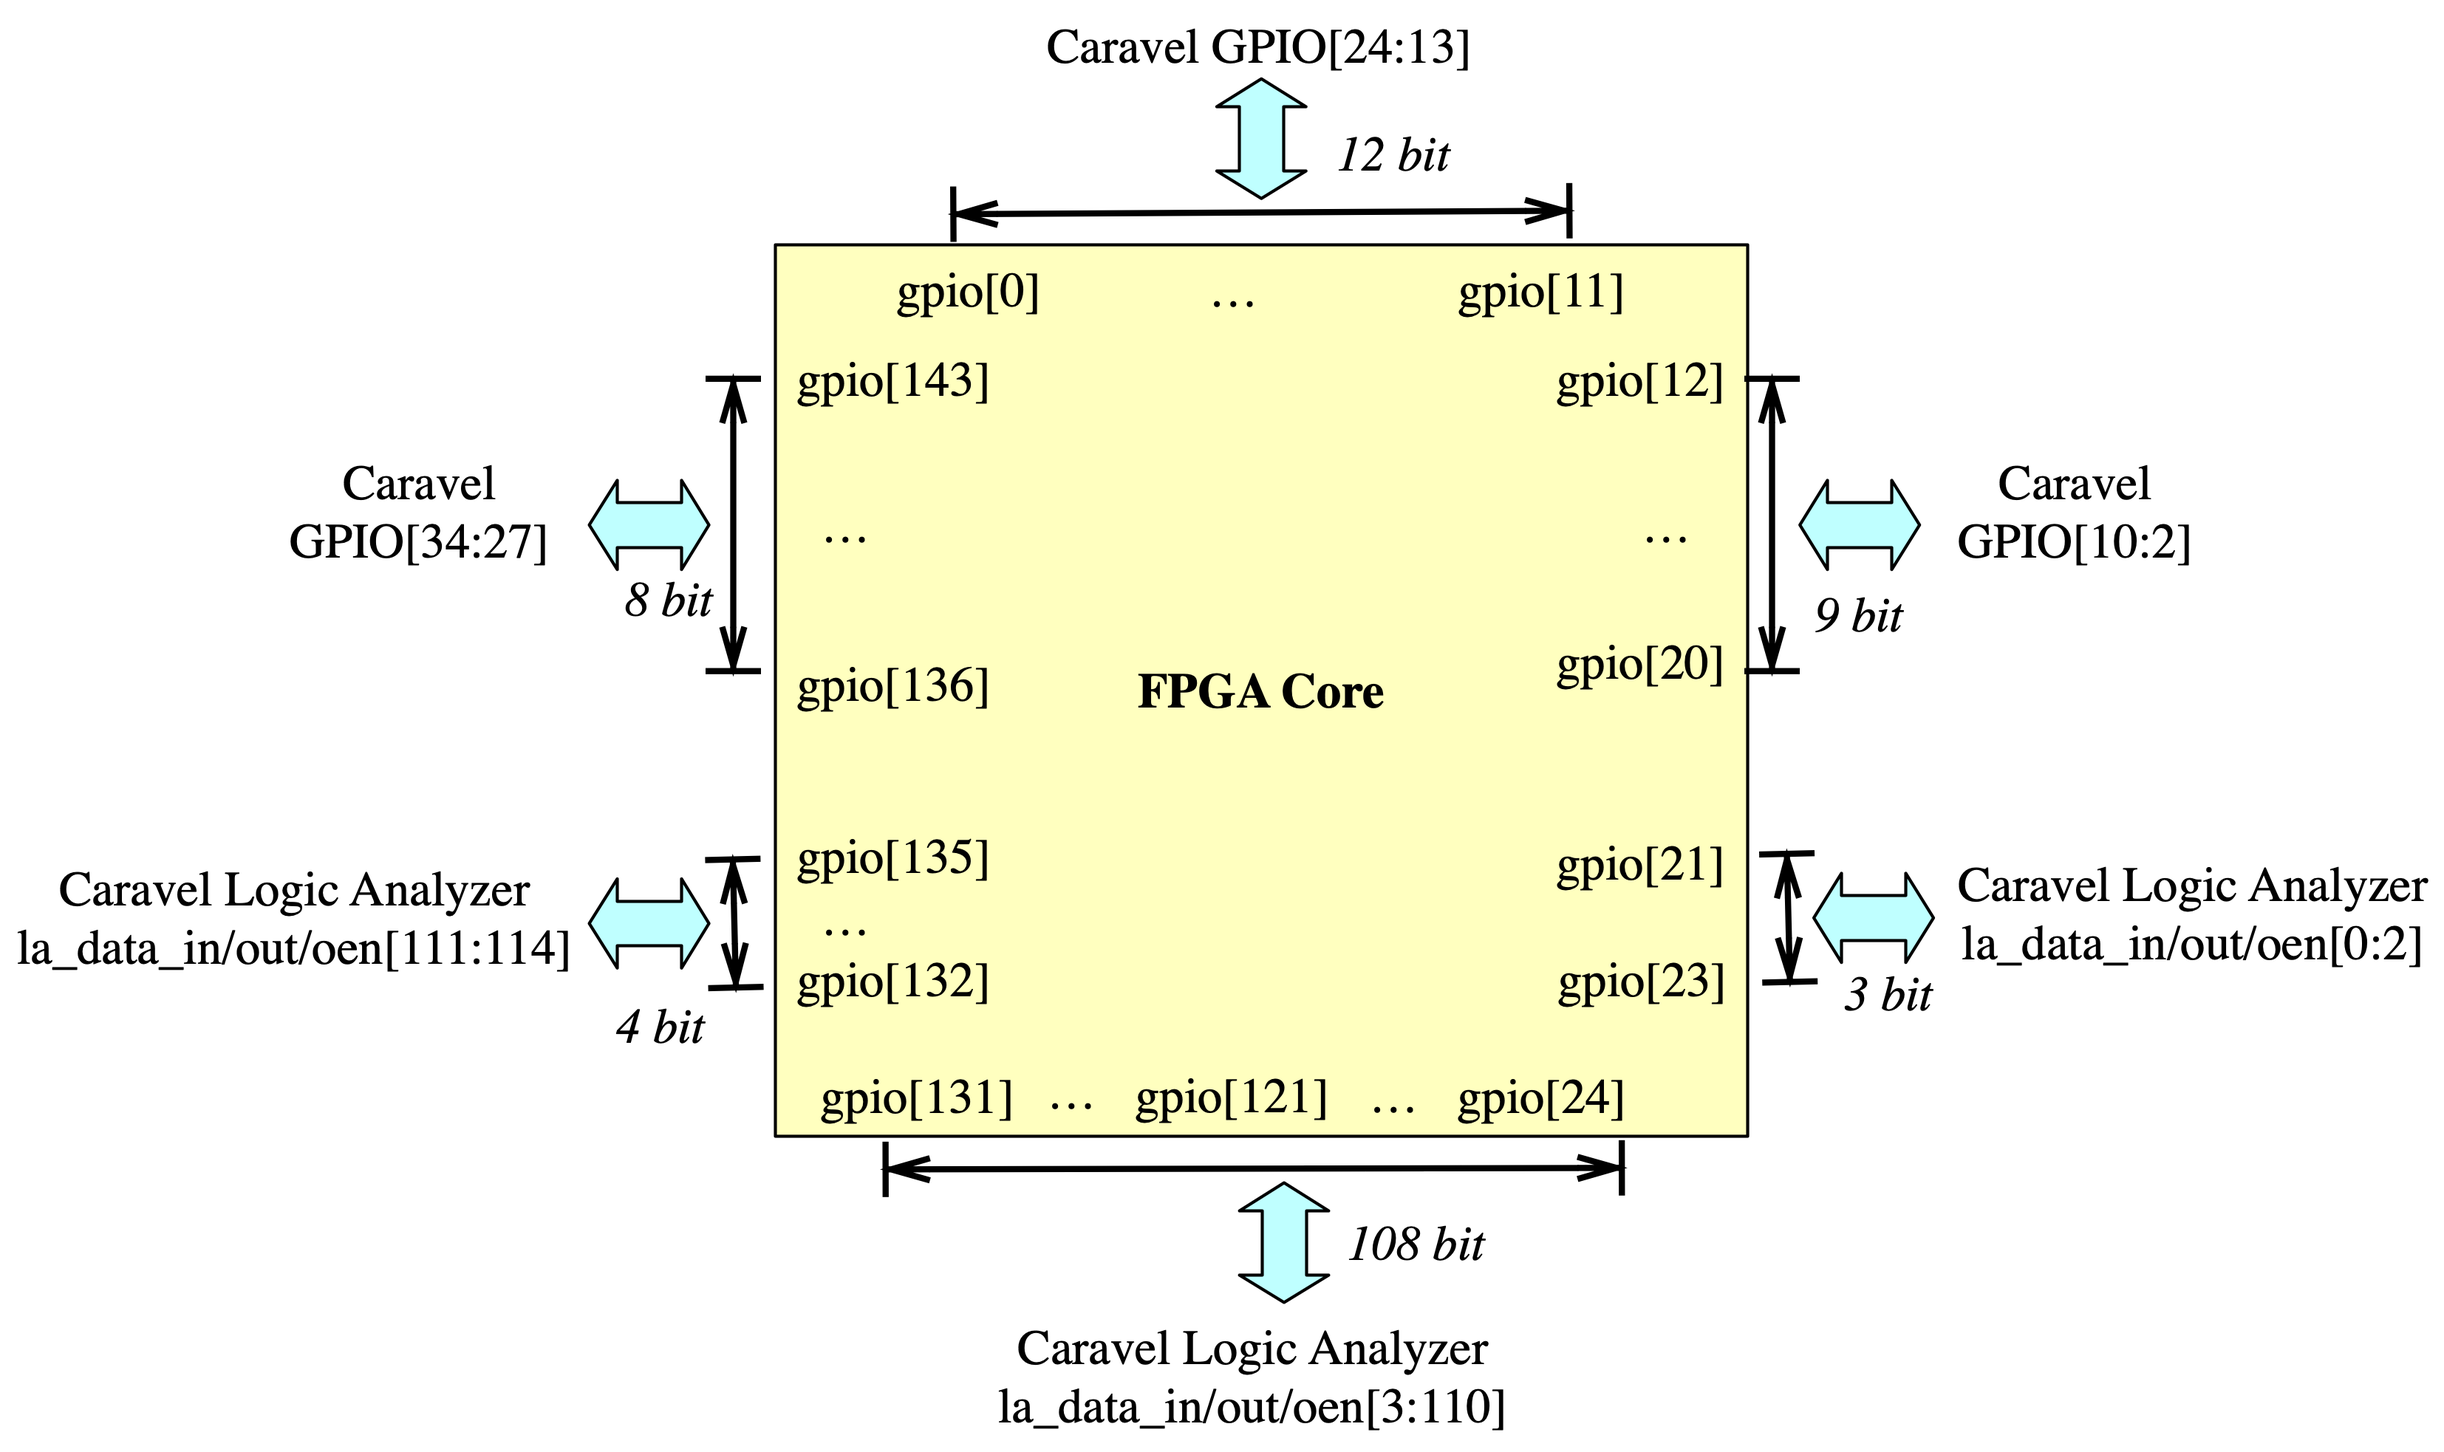
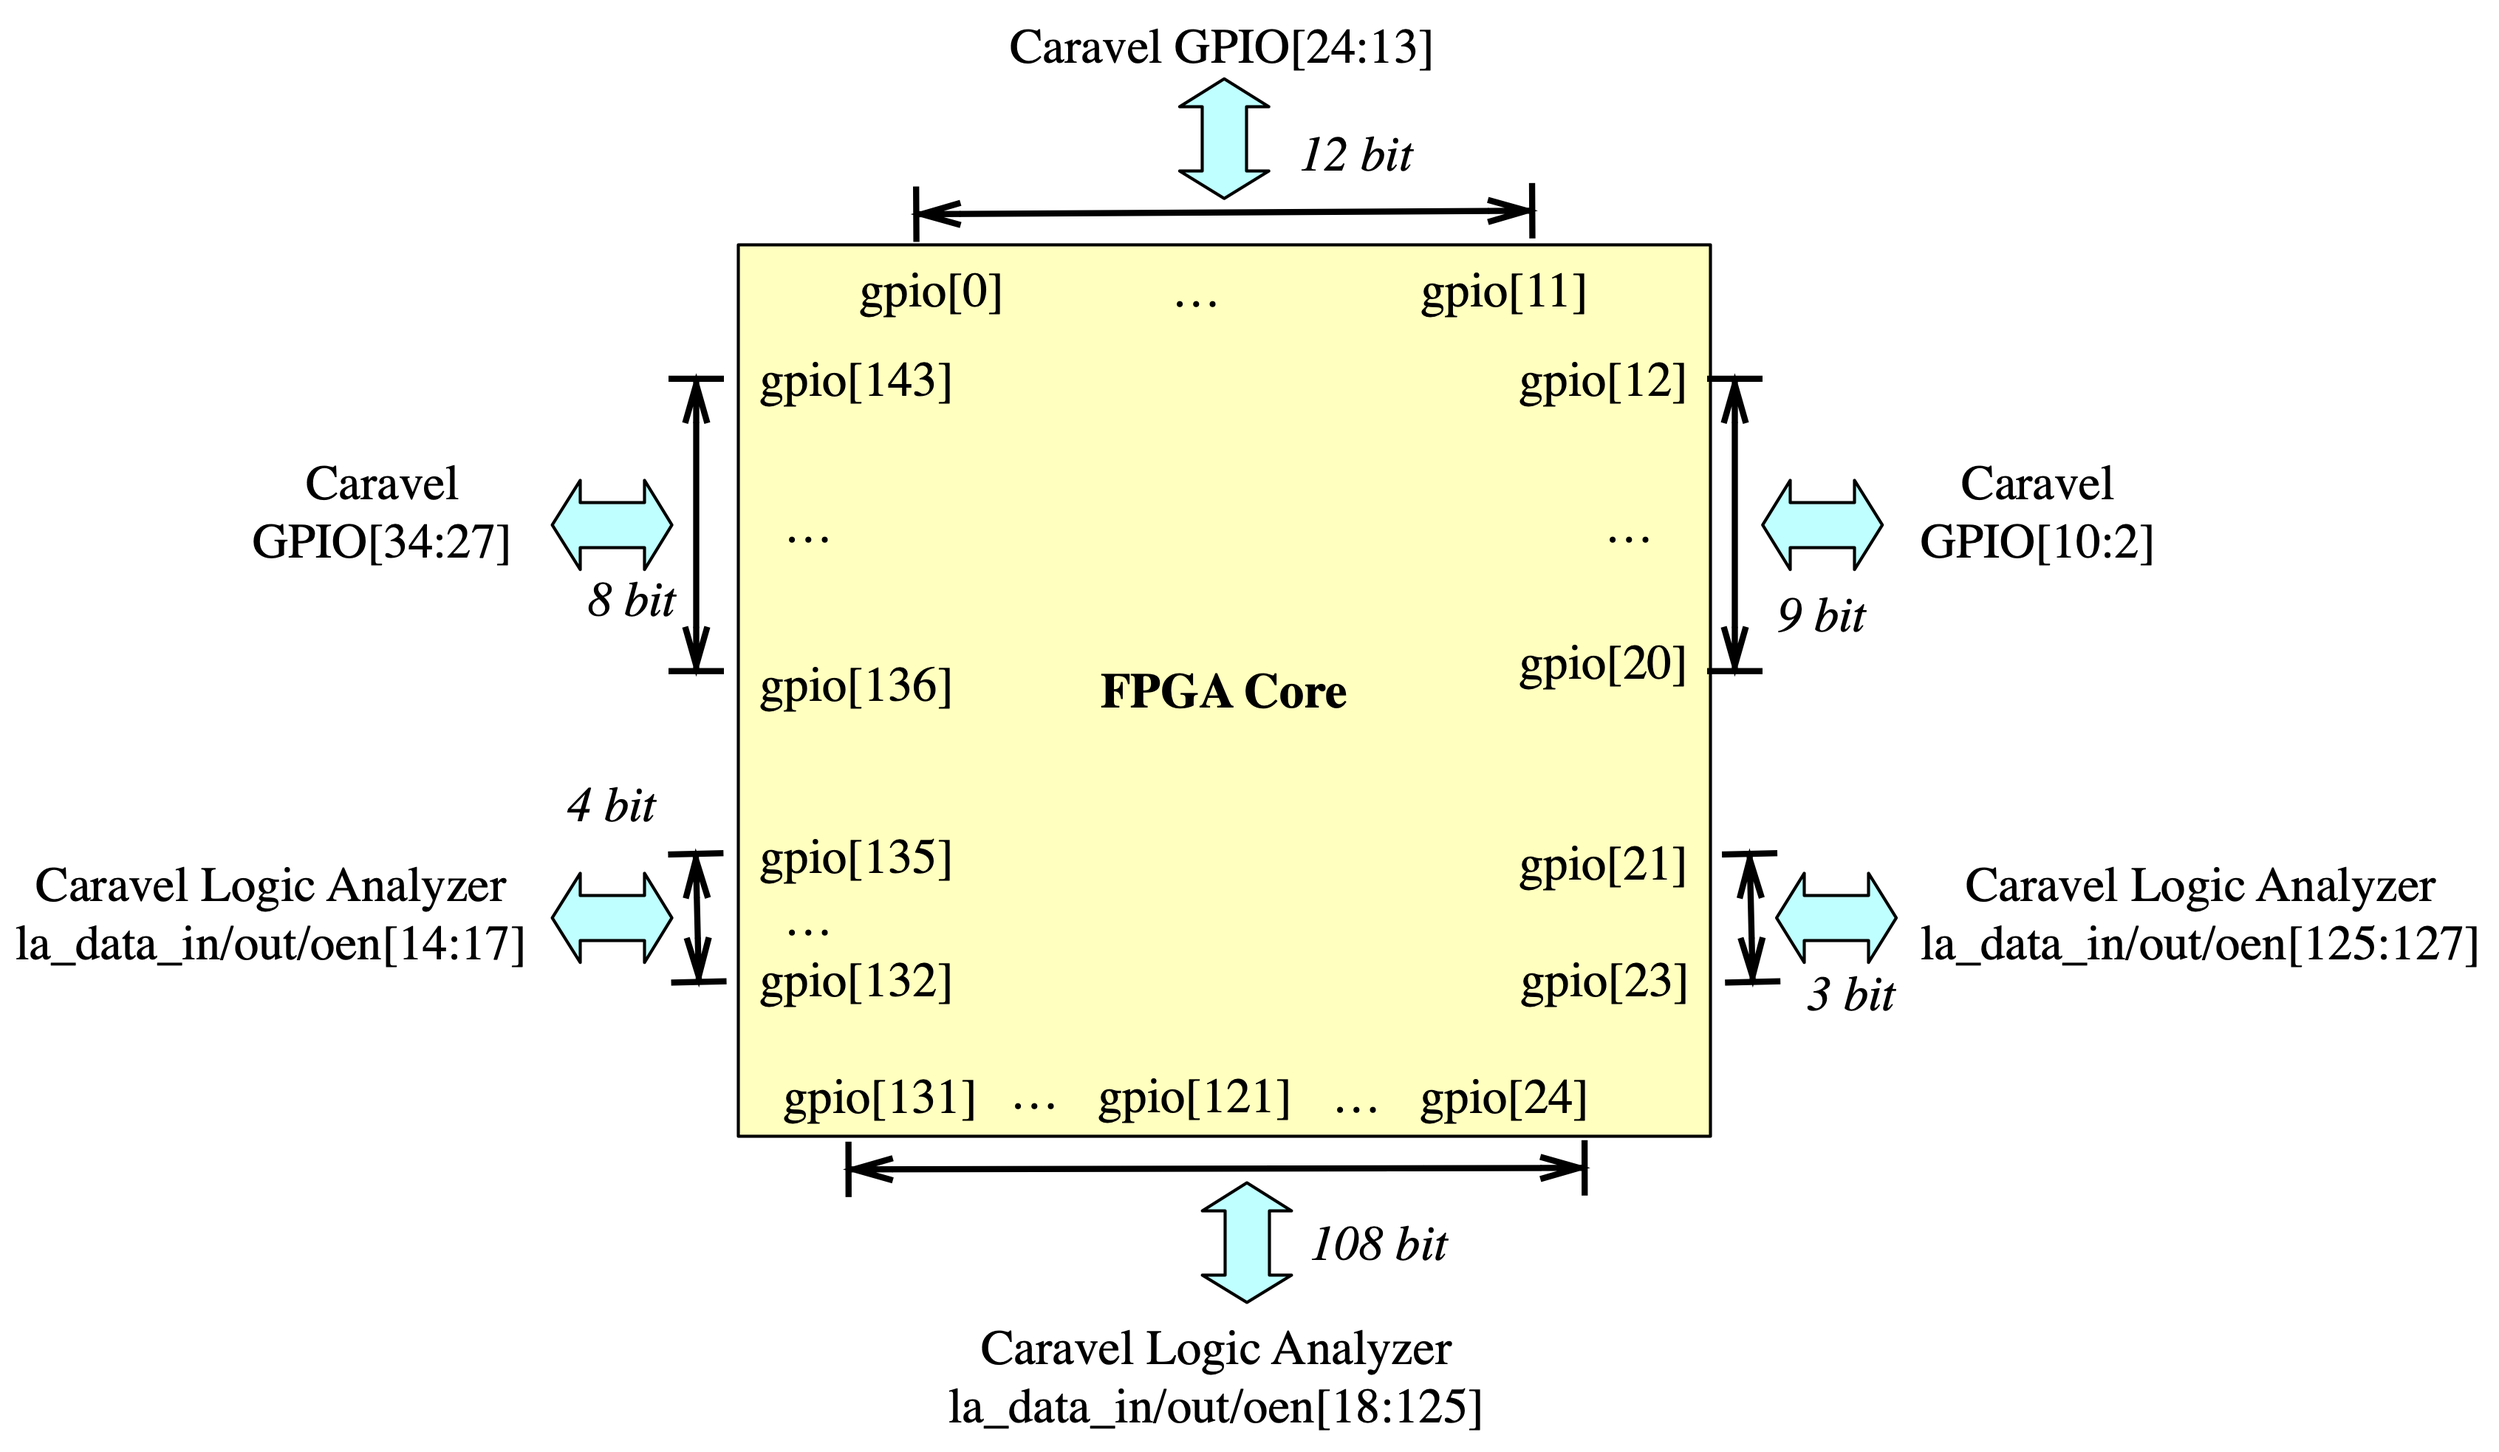
[Doc] Update I/O arrangement to avoid congestion in backend

diff --git a/DOC/source/arch/io_resource.rst b/DOC/source/arch/io_resource.rst
@@ -37,7 +37,7 @@ Accelerator Mode
 When the Wishbone interface is enabled, the FPGA can operate as an accelerator for the RISC-V processor.
 :numref:`fig_fpga_io_map_wishbone_mode` illustrates the detailed I/O arrangement for the FPGA, where the wishbone bus signals are connected to fixed FPGA I/O locations. 
 
-.. note:: Not all the 115 internal I/Os are used by the Wishbone interface. Especially, the I/O[122:131] are not connected.
+.. note:: Not all the 115 internal I/Os are used by the Wishbone interface. Especially, the I/O[21:30] are not connected.
 
 .. warning:: The FPGA does not contain a Wishbone slave IP. Users have to implement a soft Wishbone slave when use the FPGA as an accelerator.
 
